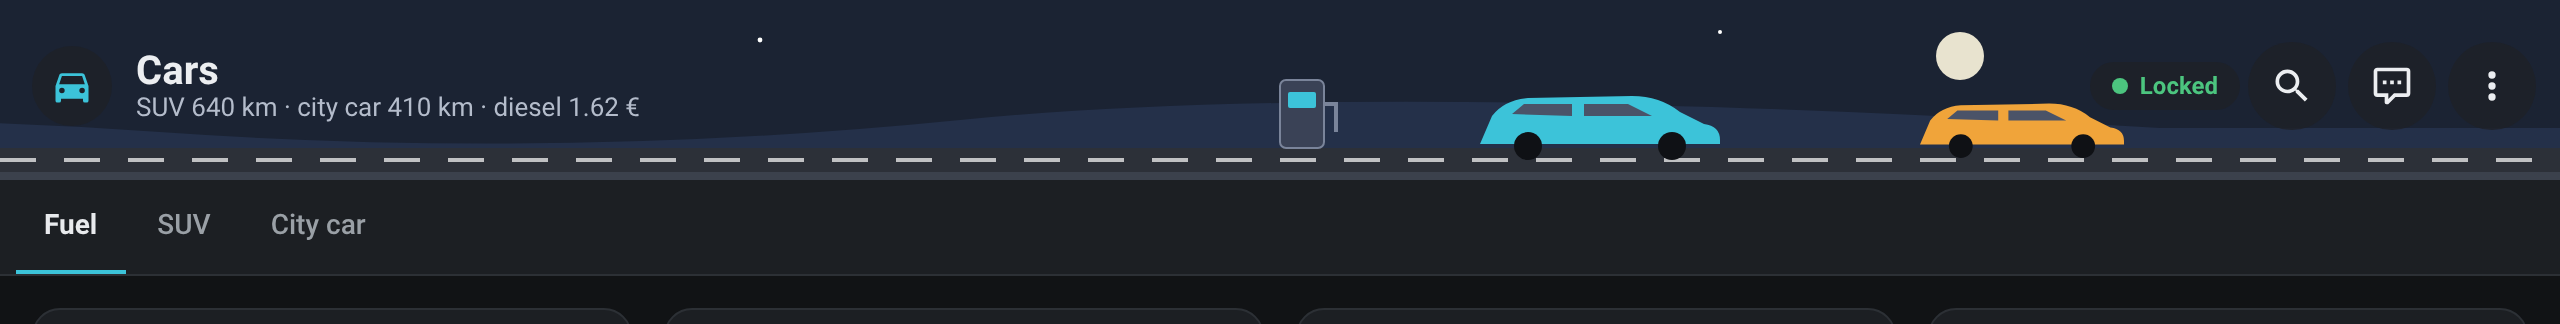
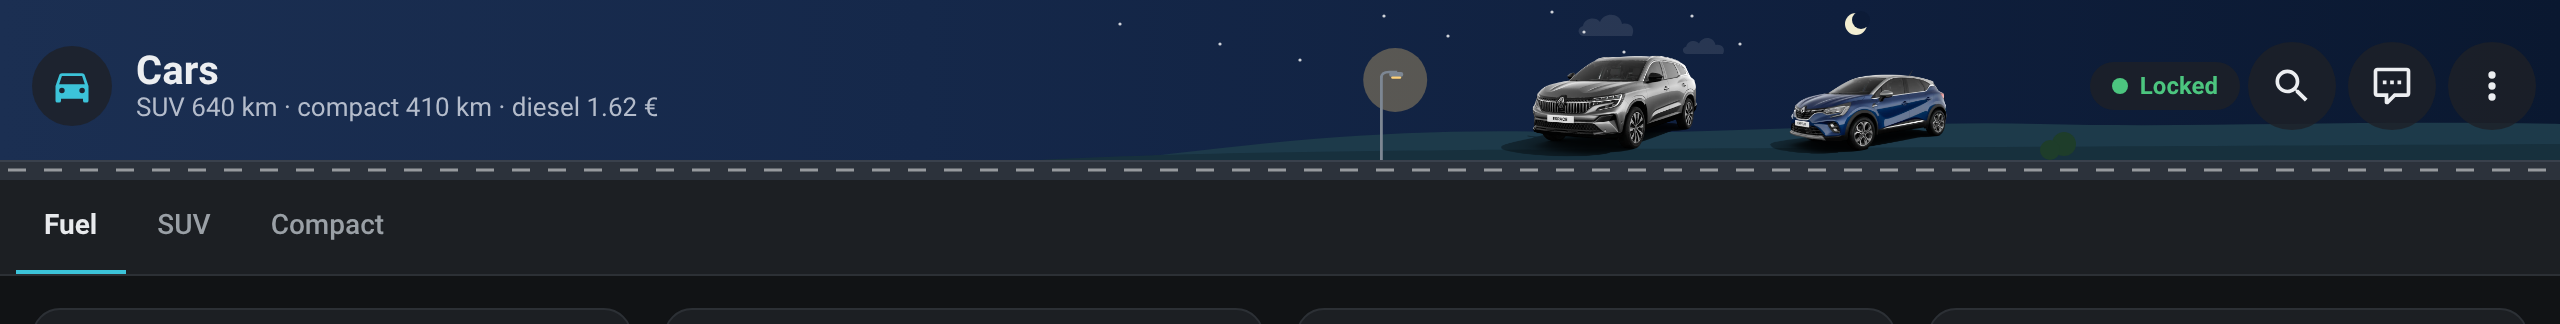
feat: draw each car from its picture on the ha-vehicle-card roadside (1.2.0) (#7)
The cars scene now reuses the cars of ha-vehicle-card.

- `scene_state.vehicles` takes a list of picture entities (the car integration's `image.*` entity, ha-renault-picture, a device tracker with a picture) or picture URLs, up to three: each car is drawn as its own picture, parked on the road.
- Without pictures (or a number of cars), ha-vehicle-card's plain car is drawn.
- The roadside of ha-vehicle-card: street lamp lit at night, bush, dashed road.
- The banner redraws when a picture entity changes (its access token rotates).
- Unit tests for the vehicle list; README and changelog.

---
_Generated by [Claude Code](https://claude.ai/code)_

diff --git a/src/dashboard-header.js b/src/dashboard-header.js
@@ -134,11 +134,44 @@
     (led ? `<circle class="${led.blink ? "blink" : ""}" cx="${x + 57}" cy="75" r="2.2" fill="${led.color}"/>` : "");
   const tree = (c, x, y, r) => `<circle cx="${x}" cy="${y}" r="${r}" fill="${c.tree}"/><rect x="${x - 2}" y="${y + 4}" width="4" height="${86 - y - 4}" fill="${c.tree}"/>`;
   const pylon = (c, x) => `<path d="M${x - 10} 86 L${x} 24 L${x + 10} 86 M${x - 6} 60 H${x + 6} M${x - 4} 44 H${x + 4} M${x - 14} 30 H${x + 14}" fill="none" stroke="${c.line}" stroke-width="2"/>`;
-  const car = (c, color, transform = "") =>
-    `<g${transform ? ` transform="${transform}"` : ""}>` +
-    `<path d="M860 72 L866 58 Q872 50 884 49 L936 48 Q950 48 960 56 L972 62 Q980 63 980 70 V72 Z" fill="${color}"/>` +
-    `<path d="M876 57 L882 52 H906 V58 Z M912 52 H934 L946 58 H912 Z" fill="${c.glassWin}"/>` +
-    `<circle cx="884" cy="73" r="7" fill="${c.tyre}"/><circle cx="956" cy="73" r="7" fill="${c.tyre}"/></g>`;
+  // The roadside of ha-vehicle-card (rnSceneSvg / RN_SCENE_STYLE), at its own scale: its sky gradient, sun or moon,
+  // drifting clouds, two hills, street lamp (lit at night), bush and 10 px road; the cars park on the road.
+  const VC = {
+    light: { far: "#a7d39f", hill: "#86c27f", bush: "#4f9a3a", pole: "#5f6b7a", bulb: "#e8e0d0", glass: "#cfe6f7", tyre: "#22262b",
+      road: "#858c94", roadLine: "#6f767d", dash: 0.85, cloud: 0.92 },
+    dark: { far: "#1d3a4a", hill: "#17303d", bush: "#1e3d2a", pole: "#7d8793", bulb: "#ffd27a", glass: "#3b4b5e", tyre: "#22262b",
+      road: "#2c323b", roadLine: "#3a414c", dash: 0.5, cloud: 0.1 },
+  };
+  const VC_SKY = {
+    light: "linear-gradient(90deg, #f1f8ff 0%, #e2f1fd 34%, #b9def8 70%, #9fd0f3 100%)",
+    dark: "linear-gradient(90deg, #1b2f52 0%, #15284a 36%, #0f1f3d 72%, #0a1830 100%)",
+  };
+  const VC_CLOUD = "M-14,4 C-17,4 -18,0 -14.5,-1 C-14,-5 -8,-6 -6,-3 C-4,-8 4,-8 5,-2 C9,-3 12,0 10,4 Z";
+  // ha-vehicle-card's plain car (rnSceneCar), drawn when a vehicle has no picture.
+  const plainCar = (v, color, x) =>
+    `<g transform="translate(${x} 79) scale(2.1)"><path d="M0 -6 Q1 -11 8 -12 L14 -16 H26 L33 -12 Q40 -11 40 -6 V-2 H0Z" fill="${color}"/>` +
+    `<path d="M15 -15 H25 L30 -12 H11Z" fill="${v.glass}"/><circle cx="9" cy="-2" r="3.4" fill="${v.tyre}"/><circle cx="31" cy="-2" r="3.4" fill="${v.tyre}"/></g>`;
+  const streetLamp = (v, x, night) =>
+    (night ? `<circle cx="${x + 7.6}" cy="40" r="16" fill="#ffd27a" opacity="0.3"/>` : "") +
+    `<rect x="${x}" y="38" width="1.4" height="42" fill="${v.pole}"/>` +
+    `<path d="M${x + 0.6} 39 Q${x + 0.6} 36 ${x + 4.6} 36 H${x + 8.6}" fill="none" stroke="${v.pole}" stroke-width="1.2"/>` +
+    `<rect x="${x + 4.6}" y="36" width="7" height="2.4" rx="1" fill="${v.pole}"/>` +
+    `<rect x="${x + 5.6}" y="38.2" width="5" height="1.2" rx="0.6" fill="${v.bulb}"/>`;
+  // Where each picture parks on the road (x of its 124 × 66 box, as in ha-vehicle-card), for one to three vehicles.
+  const PARKING = { 1: [1150], 2: [1066, 1196], 3: [1000, 1116, 1232] };
+  // The vehicles of the cars scene: a list of picture entities (image.*, or any entity with an entity_picture, e.g.
+  // the device tracker), picture URLs, or { picture } objects; or a number of plain cars. At most three.
+  const vehicleList = (raw, hass) => {
+    const picture = (v) => {
+      if (v && typeof v === "object") return picture(v.picture ?? v.entity ?? v.image);
+      if (typeof v !== "string" || !v) return null;
+      if (ENTITY_ID.test(v)) return hass?.states?.[v]?.attributes?.entity_picture || null;
+      return /^(https?:\/\/|\/)/.test(v) ? v : null;
+    };
+    if (Array.isArray(raw)) return raw.slice(0, 3).map((v) => ({ img: picture(v) }));
+    const n = Math.max(1, Math.min(3, Number.parseInt(raw ?? 2, 10) || 2));
+    return Array.from({ length: n }, () => ({ img: null }));
+  };
 
   const SCENES = {
     maison: {
@@ -186,22 +219,38 @@
     voitures: {
       icon: "mdi:car",
       accent: "cyan",
-      bg: "sky",
+      band: (mode) => VC_SKY[mode],
       keys: ["vehicles"],
-      draw: (c, st, p) => {
-        const count = Math.max(1, Math.min(2, Number.parseInt(st.vehicles ?? 2, 10) || 2));
+      // ha-vehicle-card's roadside; each car is its own picture (the official photo of ha-renault-picture, the
+      // integration's image entity…) parked on the road, or ha-vehicle-card's plain car.
+      draw: (c, st, p, mode, hass) => {
+        const v = VC[mode];
+        const night = mode === "dark";
+        const cars = vehicleList(st.vehicles, hass);
+        const colors = [p.cyan, p.amber, p.violet];
         return (
-          stars(c, [[700, 20, 1.2], [1180, 16, 1]]) +
-          `<circle cx="1300" cy="28" r="12" fill="${c.sun}"/>` +
-          hills(c, "M0 70 Q200 52 400 66 T800 60 T1400 64 V90 H0z") +
-          `<rect x="0" y="74" width="1600" height="12" fill="${c.asphalt}"/>` +
-          `<path d="M0 80 H1600" stroke="#ffffff" stroke-width="2" stroke-dasharray="18 14" opacity="0.7"/>` +
-          `<rect x="960" y="40" width="22" height="34" rx="3" fill="${c.appl}" stroke="${c.line}"/>` +
-          `<rect x="964" y="46" width="14" height="8" rx="1" fill="${p.cyan}"/>` +
-          `<path d="M982 52 h6 v14" fill="none" stroke="${c.line}" stroke-width="2"/>` +
-          car(c, p.cyan, "translate(200 0)") +
-          (count > 1 ? car(c, p.amber, "translate(549 11) scale(0.85)") : "") +
-          ground(c.road)
+          (night
+            ? [[1012, 8], [1044, 18], [1096, 6], [1132, 26], [1166, 8], [1190, 22], [970, 30], [1112, 16], [880, 12], [930, 22]]
+                .map(([x, y], i) => `<circle class="${i % 2 ? "twinkle" : ""}" cx="${x}" cy="${y}" r="0.8" fill="#ffffff" opacity="0.8"/>`)
+                .join("") +
+              `<circle cx="1248" cy="12" r="5.5" fill="#f3eed2"/><circle cx="1250.5" cy="10" r="4.5" fill="#0c1b37"/>`
+            : `<circle cx="1248" cy="12" r="9" fill="#ffd65a" opacity="0.28"/><circle cx="1248" cy="12" r="6" fill="#ffd65a"/>`) +
+          `<path class="drift" transform="translate(1126 14)" d="${VC_CLOUD}" fill="#ffffff" opacity="${v.cloud}"/>` +
+          `<path class="drift slow" transform="translate(1174 24) scale(.75)" d="${VC_CLOUD}" fill="#ffffff" opacity="${v.cloud}"/>` +
+          `<path d="M880,80 C960,70 1020,64 1100,66 C1180,68 1260,60 1340,62 C1420,64 1500,60 1600,62 L1600,80Z" fill="${v.far}"/>` +
+          `<path d="M840,80 C960,74 1100,75 1600,72 L1600,80Z" fill="${v.hill}"/>` +
+          streetLamp(v, 1010, night) +
+          `<g fill="${v.bush}"><circle cx="1352" cy="72" r="6"/><circle cx="1345" cy="75" r="5"/></g>` +
+          `<rect x="0" y="80" width="1600" height="10" fill="${v.road}"/><rect x="0" y="80" width="1600" height="1" fill="${v.roadLine}"/>` +
+          `<path d="M0 85 H1600" stroke="#ffffff" stroke-width="1.6" stroke-dasharray="9 9" opacity="${v.dash}"/>` +
+          cars
+            .map(({ img }, i) => {
+              const x = PARKING[cars.length][i];
+              return img
+                ? `<image href="${esc(img)}" x="${x}" y="20" width="124" height="66" preserveAspectRatio="xMidYMax meet"/>`
+                : plainCar(v, colors[i], x + 20);
+            })
+            .join("")
         );
       },
     },
@@ -477,7 +526,7 @@
     entities() {
       const c = this._cfg;
       if (!c) return [];
-      const list = [c.status?.entity, ...Object.values(c.sceneState || {})];
+      const list = [c.status?.entity, ...Object.values(c.sceneState || {}).flat()].map((v) => (v && typeof v === "object" ? v.picture ?? v.entity ?? v.image : v));
       return list.filter((v) => typeof v === "string" && ENTITY_ID.test(v));
     }
 
@@ -552,7 +601,7 @@
       const narrow = Boolean(root.narrow);
       const st = {};
       for (const k of scene ? scene.keys : []) st[k] = this.value(cfg.sceneState?.[k]);
-      const bandBg = scene ? c[scene.bg] : c.sky;
+      const bandBg = scene ? (scene.band ? scene.band(mode) : c[scene.bg]) : c.sky;
       const views = t(hass, "views");
 
       const tabHtml = tabs
@@ -578,7 +627,7 @@
           // On a phone the pills get their own scrolling row under the bar.
           (showTabs && narrow ? `<nav class="pills row" aria-label="${esc(views)}">${tabHtml}</nav>` : "")
         : `<div class="bar band" style="background:${esc(bandBg)}">` +
-          (scene ? `<svg class="scene" viewBox="0 0 ${narrow ? 1250 : 1600} 90" preserveAspectRatio="xMaxYMax slice" aria-hidden="true">${scene.draw(c, st, p, mode)}</svg>` : "") +
+          (scene ? `<svg class="scene" viewBox="0 0 ${narrow ? 1250 : 1600} 90" preserveAspectRatio="xMaxYMax slice" aria-hidden="true">${scene.draw(c, st, p, mode, hass)}</svg>` : "") +
           `${identity}${pill}</div>` +
           (showTabs ? `<nav class="tabs" aria-label="${esc(views)}">${tabHtml}</nav>` : "");
 
@@ -679,13 +728,18 @@
     .rain path:nth-child(3) { animation-delay: -0.6s; }
     .rain path:nth-child(4) { animation-delay: -0.45s; }
     .robot-away { animation: dh-robot 6s ease-in-out infinite alternate; }
+    .drift { animation: dh-drift 6s ease-in-out infinite alternate; }
+    .drift.slow { animation-duration: 8s; }
+    .twinkle { animation: dh-twinkle 3.2s ease-in-out infinite alternate; }
     .progress { animation: dh-progress 3s ease-in-out infinite alternate; transform-box: fill-box; transform-origin: left center; }
     @keyframes dh-blink { 0% { opacity: 1; } 100% { opacity: 0.25; } }
     @keyframes dh-pulse { 0%, 100% { opacity: 1; } 50% { opacity: 0.45; } }
     @keyframes dh-rain { 0% { transform: translateY(-6px); opacity: 0; } 30% { opacity: 1; } 100% { transform: translateY(18px); opacity: 0; } }
     @keyframes dh-robot { 0% { transform: translateX(0); } 100% { transform: translateX(-150px); } }
+    @keyframes dh-drift { 0% { translate: 0 0; } 100% { translate: 6px 0; } }
+    @keyframes dh-twinkle { 0% { opacity: 0.8; } 100% { opacity: 0.2; } }
     @keyframes dh-progress { 0% { transform: scaleX(0.3); } 100% { transform: scaleX(1); } }
-    @media (prefers-reduced-motion: reduce) { .blink, .pulse, .rain path, .robot-away, .progress { animation: none; } }
+    @media (prefers-reduced-motion: reduce) { .blink, .pulse, .rain path, .robot-away, .progress, .drift, .twinkle { animation: none; } }
   `;
 
   if (!customElements.get(TAG)) customElements.define(TAG, DashboardHeaderBanner);
@@ -779,6 +833,6 @@
   }, 1500);
   queue();
 
-  window.dashboardHeader = { VERSION, SCENES, PALETTE, STRINGS, resolveConfig, visibleViews, truthy, colorOf, tempoColor, binColor, sceneName, isTemplate, sync };
+  window.dashboardHeader = { VERSION, SCENES, vehicleList, PALETTE, STRINGS, resolveConfig, visibleViews, truthy, colorOf, tempoColor, binColor, sceneName, isTemplate, sync };
   console.info(`%c DASHBOARD-HEADER %c ${VERSION} `, "color:#fff;background:#2459bd;font-weight:700", "color:#2459bd;background:#fff");
 })();

diff --git a/README.md b/README.md
@@ -92,8 +92,13 @@ dashboard_header:
     lights: light.all_lights
 views:
   - title: Home
-  - title: Terrace
+  - title: Garage
     dashboard_header:          # this view only
+      scene: voitures
+      scene_state:
+        vehicles: [image.suv_picture, image.city_car_picture]
+  - title: Terrace
+    dashboard_header:
       scene: exterieur
       scene_state:
         rain: binary_sensor.rain_next_hour
@@ -128,7 +133,7 @@ Every option can be set again in a view's own `dashboard_header:` block; it over
 | `equipements` | `vacuum` | The robot leaves its dock and sweeps while `cleaning` / `returning`. |
 | | `appliance` | A programme bar runs on the dishwasher when on. |
 | | `printer` | The printer LED blinks red when on (an alert). |
-| `voitures` | `vehicles` | `1` or `2` cars on the road (default 2). |
+| `voitures` | `vehicles` | The cars parked on the road, up to three: a list of picture entities (the `image.*` entity of the car's integration or of [ha-renault-picture](https://github.com/juju35/ha-renault-picture), a device tracker with a picture) or picture URLs, each drawn as the car's own picture as in [ha-vehicle-card](https://github.com/juju35/ha-vehicle-card); or a number of plain cars (default 2). |
 | `energie` | `tempo` | The meter's screen in today's Tempo color (`bleu`/`blue`, `blanc`/`white`, `rouge`/`red`). |
 | | `power` | The meter's bolt pulses when on. |
 | `systeme` | `alert` | One rack LED blinks amber (`warning`, or any "on" state) or red (`error`, `critical`). |

diff --git a/CHANGELOG.md b/CHANGELOG.md
@@ -1,5 +1,10 @@
 # Changelog
 
+## 1.2.0 - 2026-11-19
+
+### Features
+- Cars scene: the roadside of ha-vehicle-card (sky gradient, sun or moon, drifting clouds, hills, street lamp lit at night, bush, 10 px road) and each car drawn as its own picture — `scene_state.vehicles` takes picture entities (`image.*`, ha-renault-picture, a device tracker with a picture) or URLs, up to three; plain cars as in ha-vehicle-card otherwise.
+
 ## 1.1.0 - 2026-11-19
 
 ### Features
